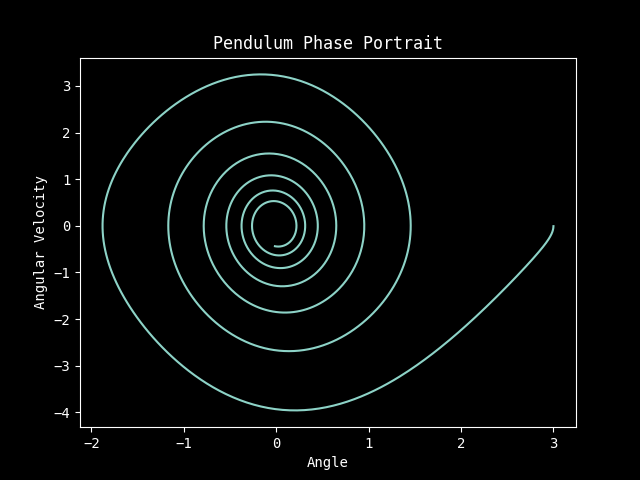
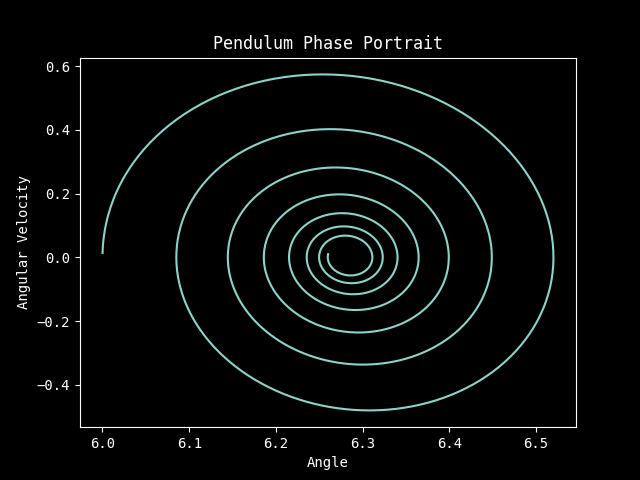
Added calculation, logging, and plotting of linear positions

diff --git a/main.cpp b/main.cpp
@@ -19,9 +19,17 @@ double omegaODE(double t, double theta, double omega) {
     return (-g / L) * std::sin(theta) - (c * omega);
 }
 
+double get_x_pos(double theta, double L) {
+    return L * std::sin(theta);
+}
+
+double get_y_pos(double theta, double L) {
+    return L * std::cos(theta);
+}
+
 int main() {
     // Initial conditions
-    double theta0 = 3;
+    double theta0 = 6;
     double omega0 = 0.0;
 
     // Step size and time
@@ -35,15 +43,20 @@ int main() {
     double endTime = 20.0;
 
     std::ofstream outfile;
+    std::ofstream pos_out;
     outfile.open("logs/pendulum_out.txt");
+    pos_out.open("logs/positions_out.txt");
     outfile << g << " " << L << " " << c << std::endl;
+    // pos_out << "x y" << std::endl;
     // Simulate and print results
     while (t < endTime) {
         solver.step();
         t = solver.get_t();
         double theta = solver.get_y1();
         double omega = solver.get_y2();
-
+        double x_pos = get_x_pos(theta, L);
+        double y_pos = get_y_pos(theta, L);
+        pos_out << x_pos << " " << y_pos << std::endl;
         outfile << t << " " << theta << " " << omega << std::endl;
     }
 

diff --git a/scripts/plotter.py b/scripts/plotter.py
@@ -4,6 +4,7 @@ import matplotlib.pyplot as plt
 plt.style.use('dark_background')
 plt.rcParams["font.family"] = "monospace"
 
+# Angular position plotting
 data = np.loadtxt("logs/pendulum_out.txt")
 constants = data[0]
 g, L, c = constants[0], constants[1], constants[2]
@@ -23,3 +24,17 @@ plt.xlabel("Time (s)")
 plt.ylabel("Angles (rad)")
 plt.legend()
 plt.savefig(f"plots/timeseries_g{g}_L{L}_c{c}.png")
+plt.clf()
+
+# Linear position plotting
+pos_data = np.loadtxt("logs/positions_out.txt")
+x_series = pos_data[:,0][1::]
+y_series = pos_data[:,1][1::]
+
+plt.plot(x_series, label="X position")
+plt.plot(y_series, label="Y position")
+plt.xlabel("Time")
+plt.ylabel("Position")
+plt.legend()
+plt.savefig("plots/position_timeseries.png")
+plt.clf()
